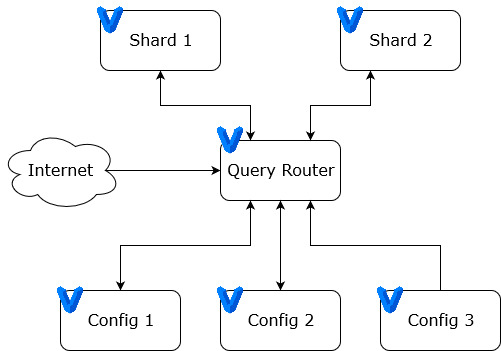
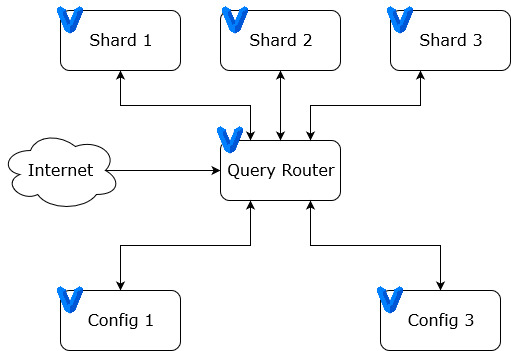
ok

diff --git a/README.md b/README.md
@@ -45,8 +45,41 @@ MongoDB mendukung penskalaan horizontal melalui sharding.
    - IP:
      -  `192.168.212.7`
 
-# Dataset
-- https://www.kaggle.com/datasnaek/youtube-new
+# Implementasi
+1. Mengkonfigurasi config server
+   1. Masuk ke primary config server
+        `vagrant ssh mongo_config_1`
+   2. Shell
+        `mongo mongo-config-1:27019`
+   3. Masukkan replica set
+        `rs.initiate( { _id: "configReplSet", configsvr: true, members: [ { _id: 0, host: "mongo-config-1:27019" }, { _id: 1, host: "mongo-config-2:27019" }] } )`
+2. Menambah shard server ke cluser
+   1. Keluar dari `SECONDARY`
+   `exit`
+   2. Gunakan db `admin`
+   `use admin`
+   3. Membuat user
+   `db.createUser({user: "mongo-admin", pwd: "password", roles:[{role: "root", db: "admin"}]})`
+3. Menambah shard ke dalam Cluster
+   1. Masuk ke mongo_shard_1
+   `vagrant ssh mong_shard_1`
+   2. Hubungkan dengan Query Router
+   `mongo router:27017 -u mongo-admin -p --authenticationDatabase admin`
+   3. Tambahkan shard
+   ```
+    sh.addShard( "shard-1:27017" )
+    sh.addShard( "shard-2:27017" )
+    sh.addShard( "shard-3:27017" )
+   ```
+4. Mengaktifkan sharding
+    1. Masuk ke router
+   `vagrant ssh router`
+    2. Connect ke MongoDB
+   `mongo router:27017 -u mongo-admin -p --authenticationDatabase admin`
+    3. Buat collection di mongodb
+
+# Import Dataset
+- Sumber https://www.kaggle.com/datasnaek/youtube-new
 
 # Implementasi Aplikasi CRUD
 
